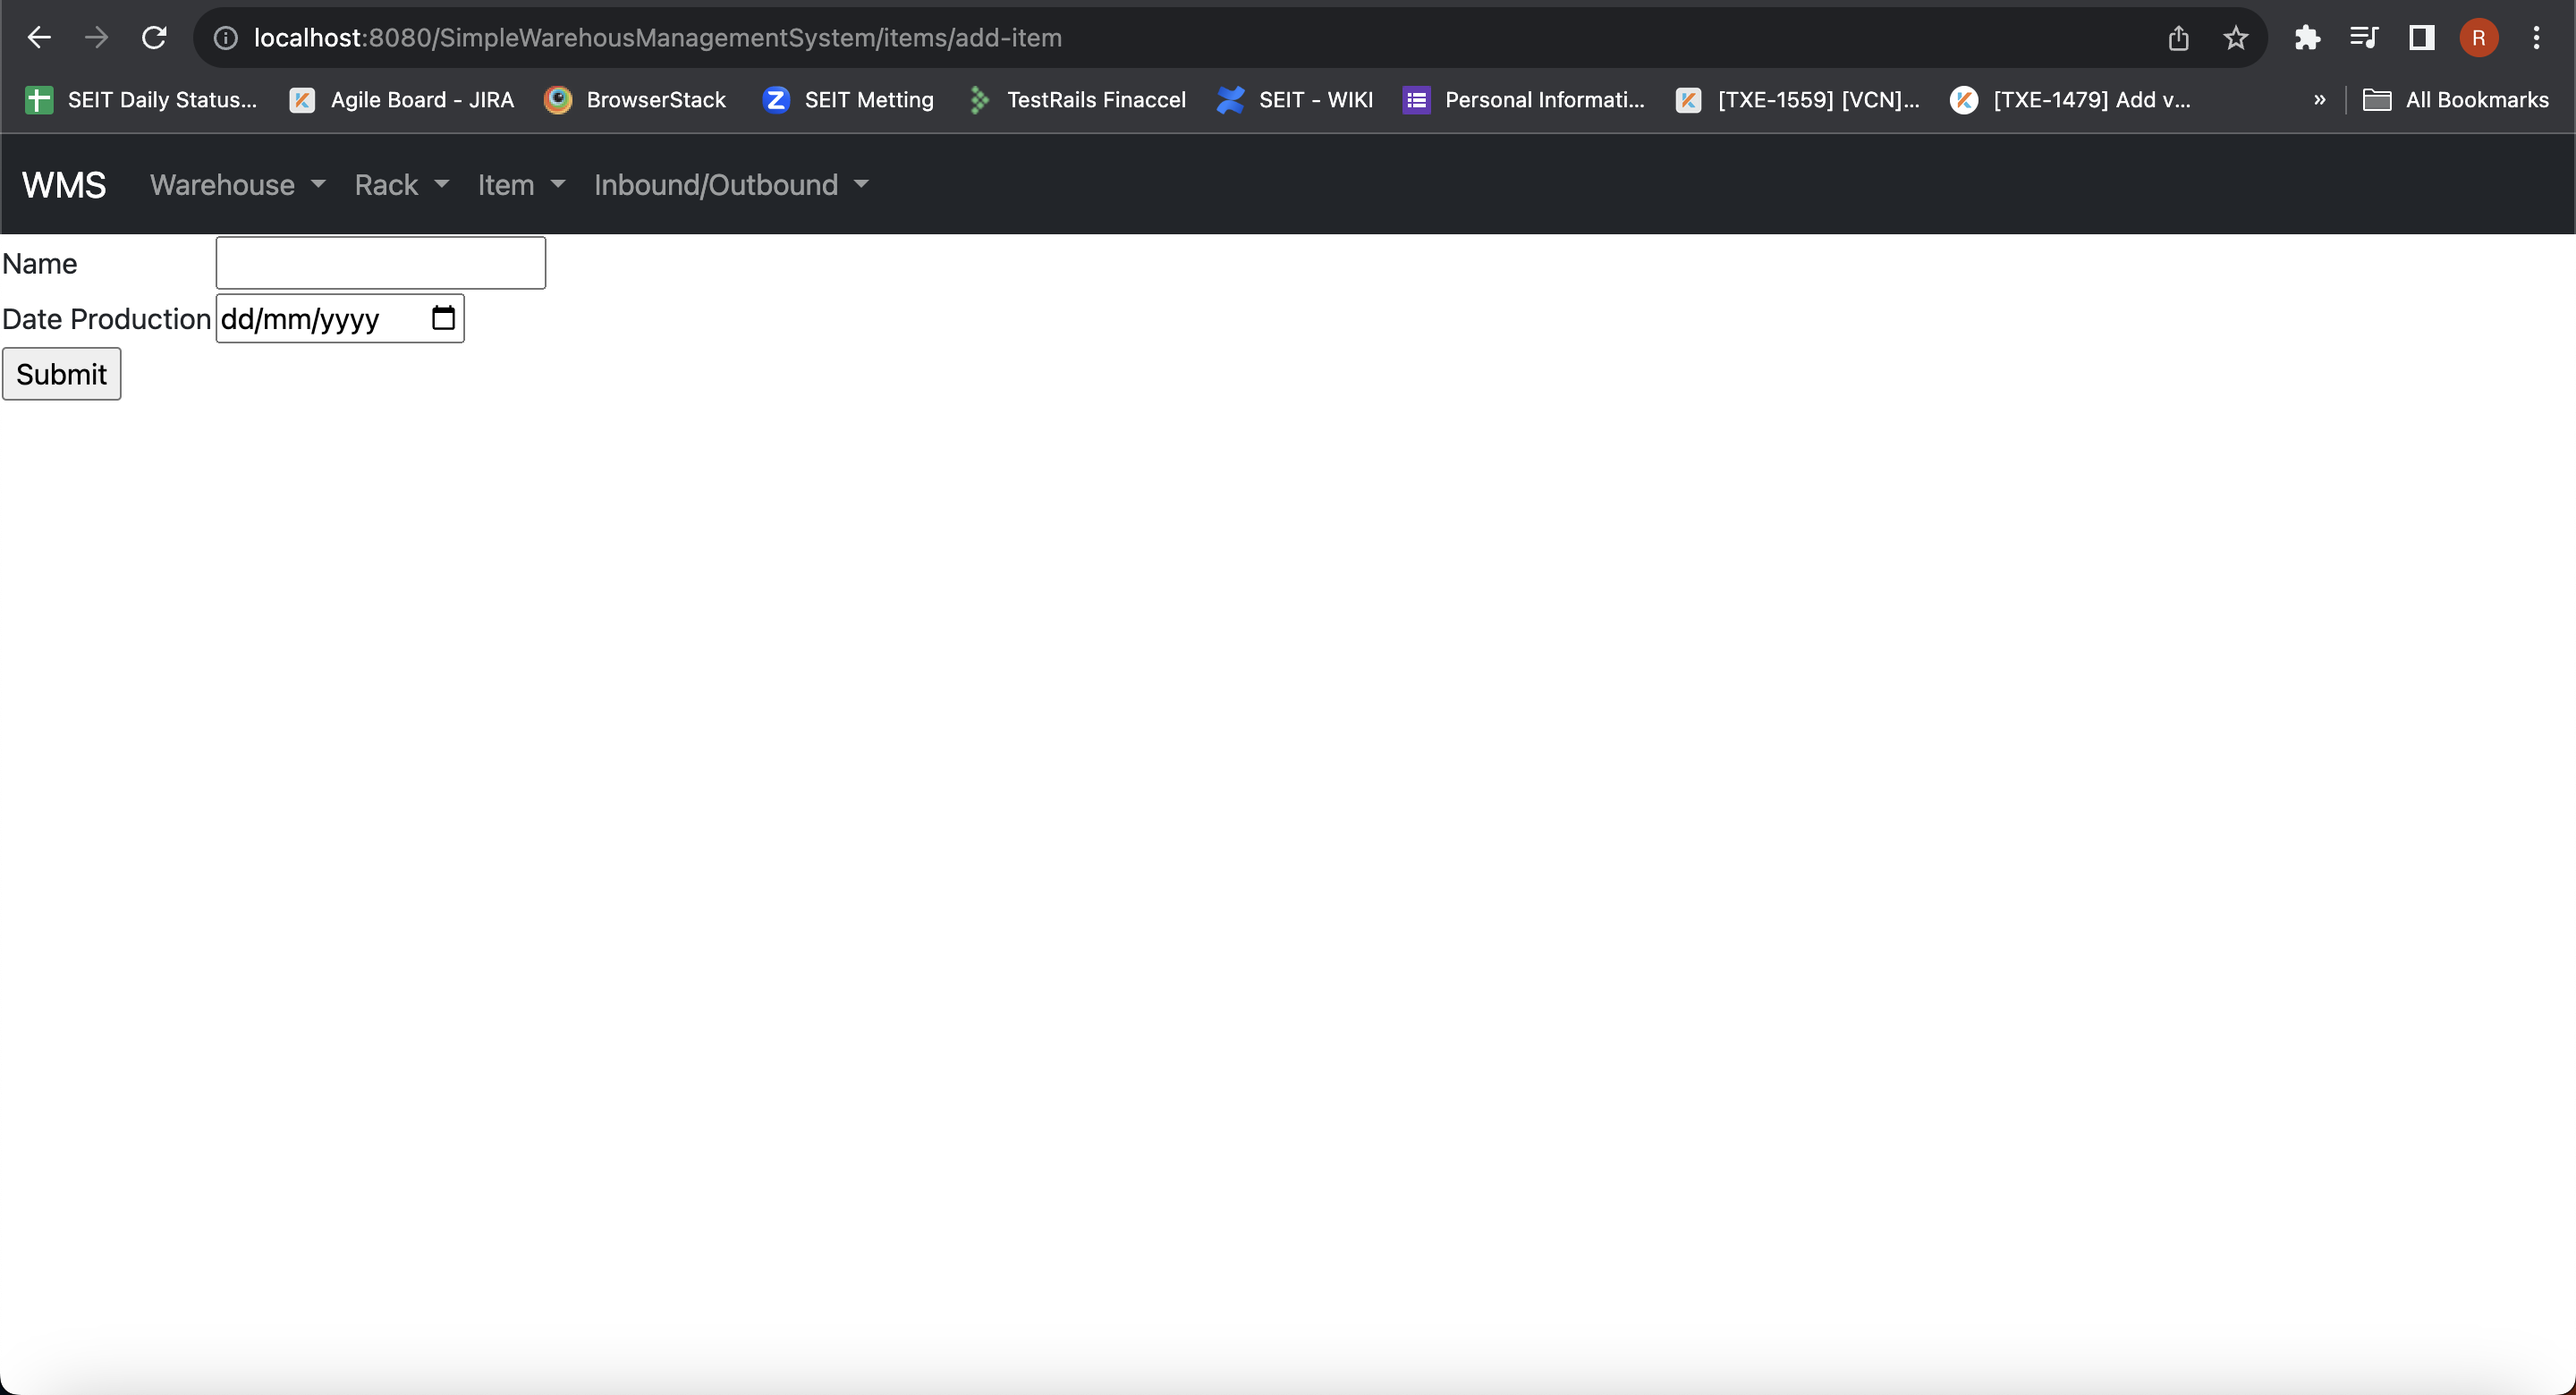
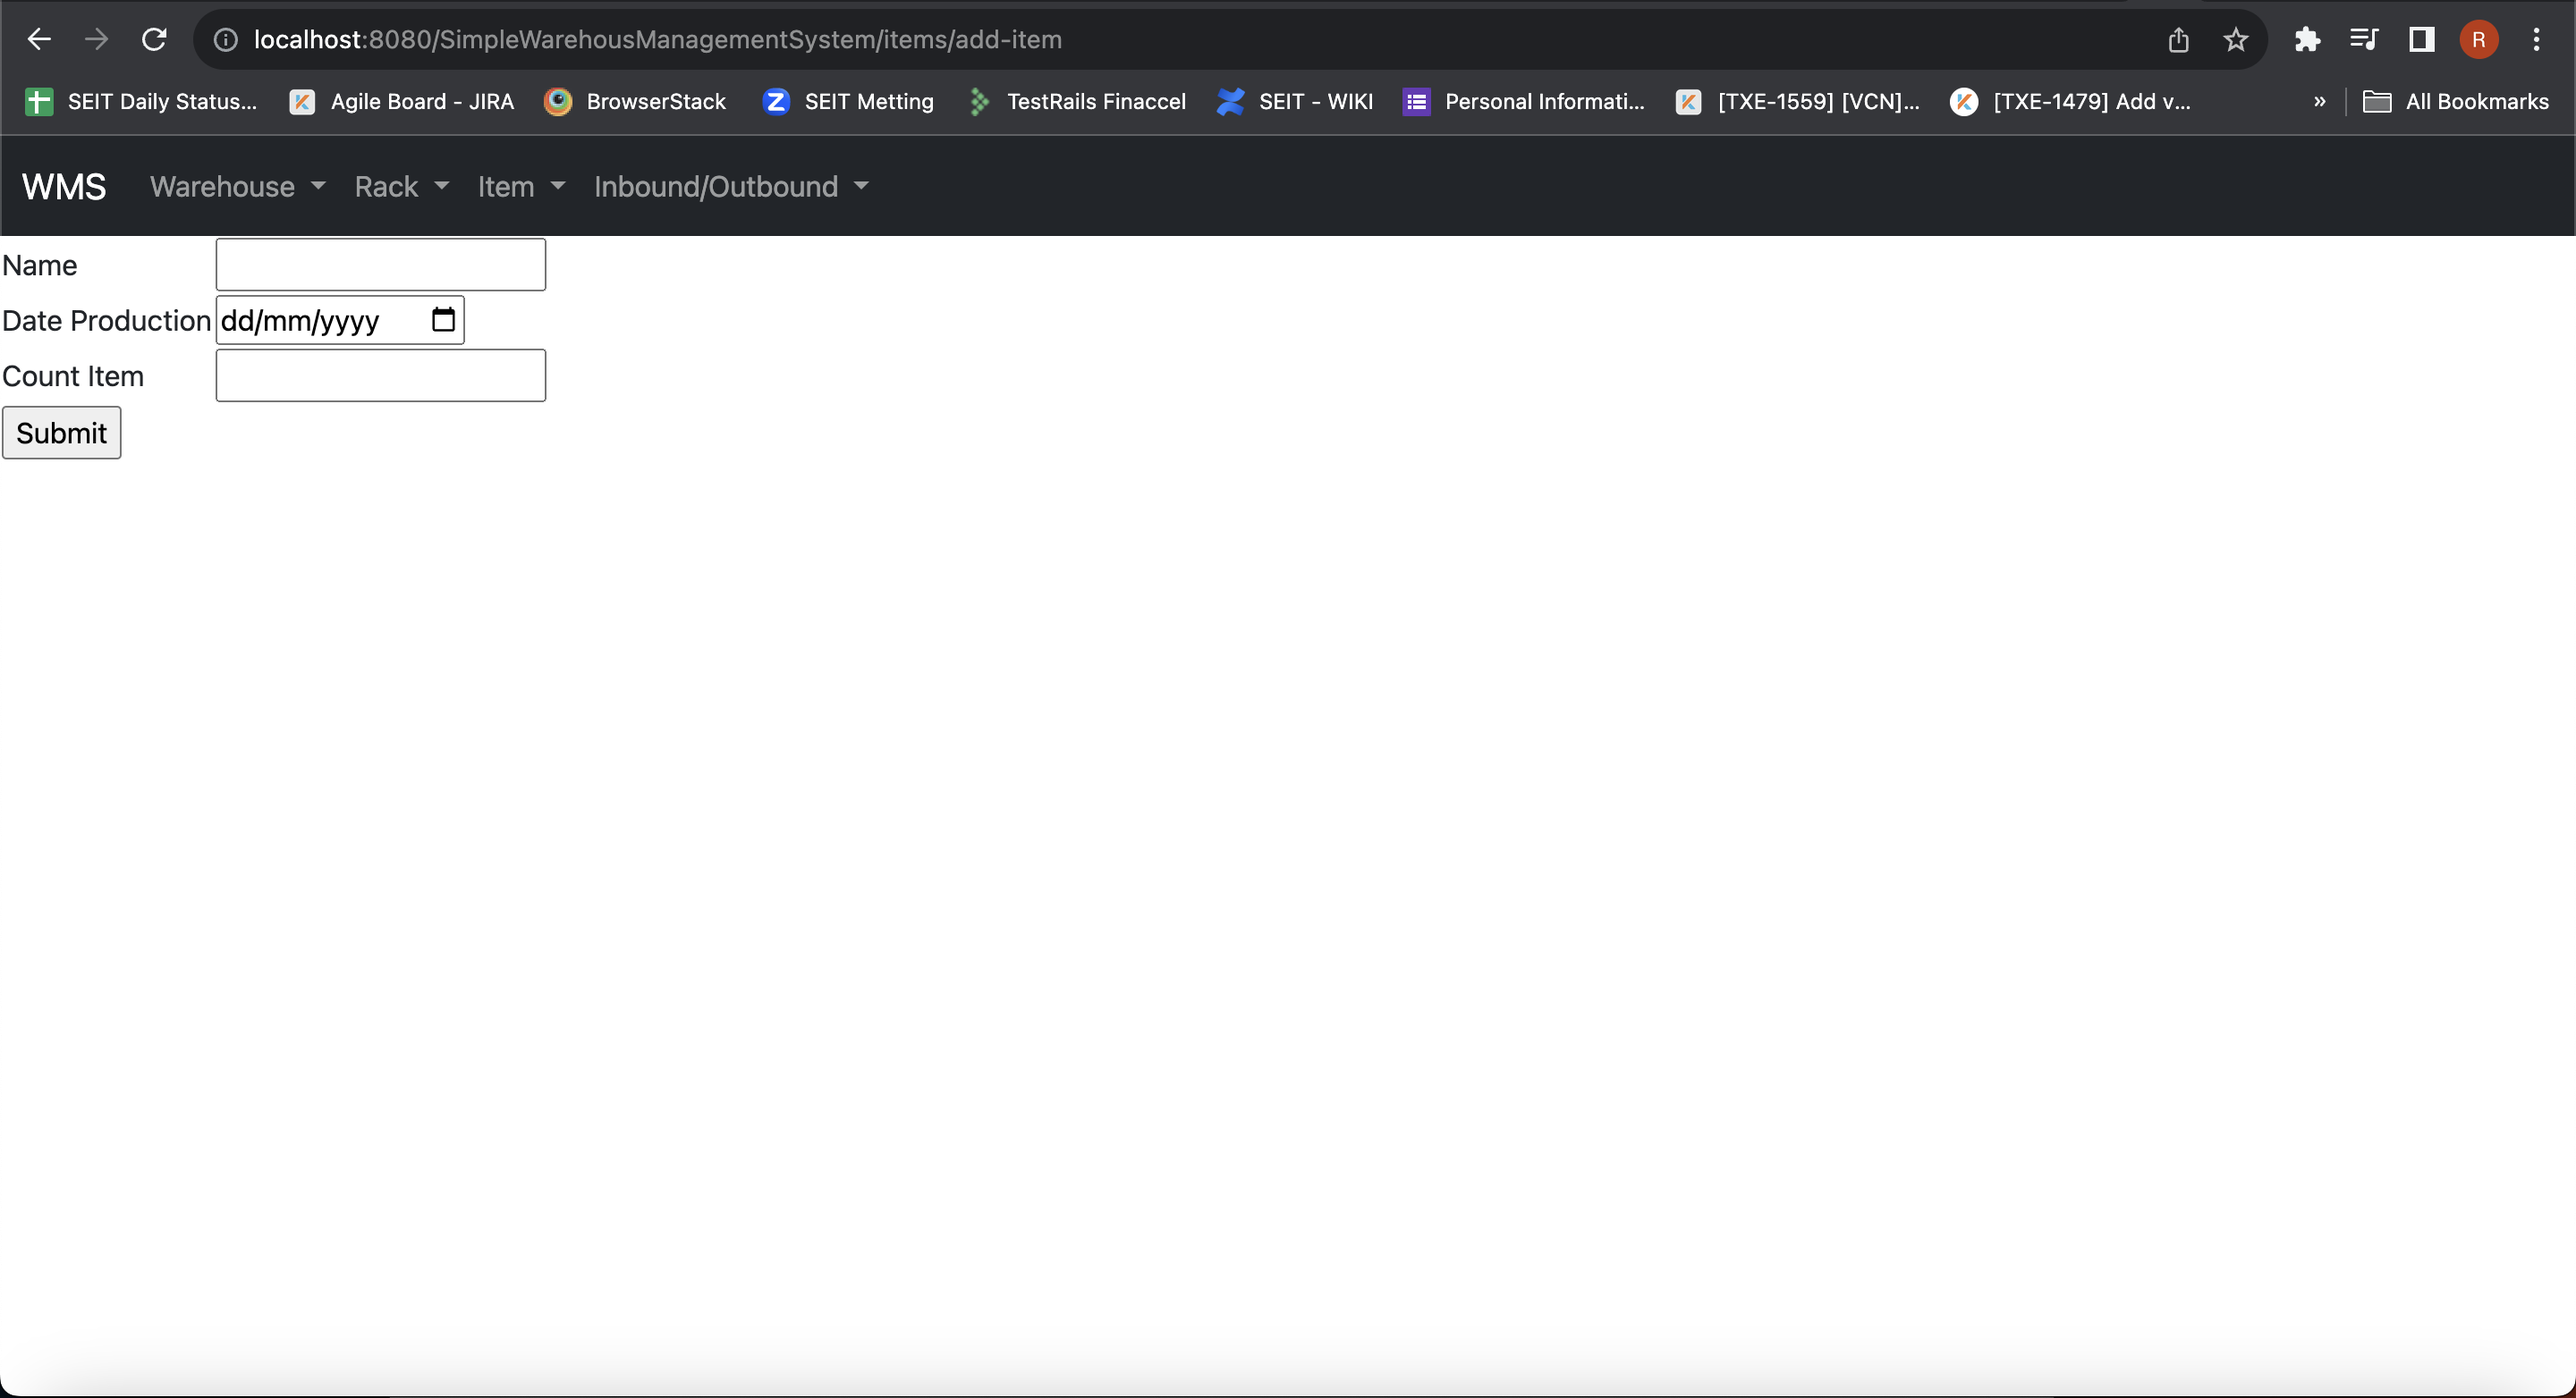
update input and list item

diff --git a/src/main/java/com/simple/warehouse/controller/ItemServlet.java b/src/main/java/com/simple/warehouse/controller/ItemServlet.java
@@ -35,12 +35,14 @@ public class ItemServlet extends HttpServlet {
 		case "add-item":
 			String nameItem = req.getParameter("nameItem");
 			String dateProduction = req.getParameter("dateProduction");
+			String countItem = req.getParameter("countItem");
 
 			SimpleDateFormat formatter = new SimpleDateFormat("yyyy-MM-dd", Locale.ENGLISH);
 			Date dateParse = null;
 			try {
 				dateParse = formatter.parse(dateProduction);
-				Item item = new Item(0, nameItem, dateParse);
+				int countItemParse = Integer.parseInt(countItem);
+				Item item = new Item(0, nameItem, dateParse, countItemParse);
 				itemDao.addItem(item);
 			} catch (java.text.ParseException e) {
 				e.printStackTrace();
@@ -53,11 +55,14 @@ public class ItemServlet extends HttpServlet {
 			String itemId = req.getParameter("itemId");
 			nameItem = req.getParameter("nameItem");
 			dateProduction = req.getParameter("dateProduction");
+			countItem = req.getParameter("countItem");
 			formatter = new SimpleDateFormat("yyyy-MM-dd", Locale.ENGLISH);
 			dateParse = null;
 			try {
 				dateParse = formatter.parse(dateProduction);
+				int countItemParse = Integer.parseInt(countItem);
 				Item selectedItem = itemDao.findItem(itemId);
+				selectedItem.setCountItem(countItemParse);
 				itemDao.updateItem(selectedItem, nameItem, dateParse);
 			} catch (java.text.ParseException e) {
 				e.printStackTrace();
@@ -99,6 +104,7 @@ public class ItemServlet extends HttpServlet {
 			req.setAttribute("item", itemSelected);
 			req.setAttribute("dateProduction",
 					new SimpleDateFormat("yyyy-MM-dd").format(itemSelected.getDateProduction()));
+			req.setAttribute("countItem", itemSelected.getCountItem());
 			dispatcher = req.getRequestDispatcher("/views/item/editItem.jsp");
 			dispatcher.forward(req, resp);
 			break;

diff --git a/src/main/java/com/simple/warehouse/dao/ItemDao.java b/src/main/java/com/simple/warehouse/dao/ItemDao.java
@@ -57,7 +57,7 @@ public class ItemDao {
 	public List<Object[]> listItem(){
 		Transaction transaction = null;
 		try(Session session = HibernateUtils.getSessionFactory().openSession()){
-			return (List<Object[]>) session.createQuery("select i.id, i.name, i.dateProduction from Item i", Object[].class).list();
+			return (List<Object[]>) session.createQuery("select i.id, i.name, i.dateProduction, i.countItem from Item i", Object[].class).list();
 		}catch(Exception e) {
 			if(transaction!=null) {
 				transaction.rollback();

diff --git a/src/main/java/com/simple/warehouse/enitty/Item.java b/src/main/java/com/simple/warehouse/enitty/Item.java
@@ -49,10 +49,11 @@ public class Item{
 	public Item() {
 	}
 
-	public Item(int id, String name, Date dateProduction) {
+	public Item(int id, String name, Date dateProduction, int countItem) {
 		this.id = id;
 		this.name = name;
 		this.dateProduction = dateProduction;
+		this.countItem = countItem;
 	}
 
 	public int getId() {
